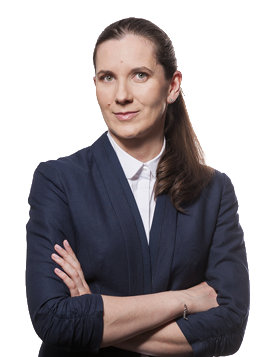
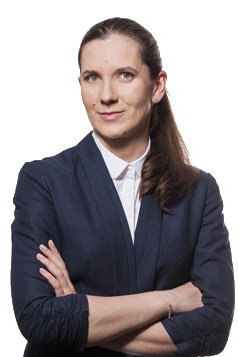
Style header

diff --git a/src/Sections/HeadingHeroRight/HeadingHeroRight.styles.js b/src/Sections/HeadingHeroRight/HeadingHeroRight.styles.js
@@ -3,26 +3,66 @@ import Image from "gatsby-image"
 
 import Button from "../../components/Button/Button"
 
+const sectionHeight = {
+  base: `100vh`,
+  xs: `800px`,
+  sm: `800px`,
+  smLandscape: `calc(100vh - 98px + 50px)`,
+  md: `700px`,
+  mdLandscape: `calc(100vh - 98px + 50px)`,
+  lg: `calc(100vh - 98px + 50px)`,
+  xxl: `calc(100vh - 98px + 50px)`,
+}
+
+const heroImgSizes = {
+  md: {
+    height: `700px`,
+    width: `466px`,
+  },
+  mdLandscape: `(100vh - 98px + 50px)`,
+  lg: {
+    height: `calc(100vh - 98px + 80px)`,
+    width: `calc((100vh - 98px + 80px) * 0.666)`,
+  },
+  xxl: `(100vh - 98px + 50px)`,
+}
+
 export const StyledSection = styled.section`
-  height: 100vh;
+  height: ${sectionHeight.base};
   background-size: cover;
   background-repeat: no-repeat;
-  /* padding-bottom: 100px; */
+  padding-bottom: 100px;
 
   ${({ theme }) => theme.media.xsAbove} {
-    height: 800px;
+    height: ${sectionHeight.xs};
   }
 
   ${({ theme }) => theme.media.smAbove} {
-    height: 700px;
+    height: ${sectionHeight.sm};
     background-image: none;
     display: flex;
     position: relative;
     padding-bottom: 0px;
 
     @media (orientation: landscape) {
-      height: calc(100vh - 98px + 50px);
+      height: ${sectionHeight.smLandscape};
     }
+  }
+
+  ${({ theme }) => theme.media.mdAbove} {
+    height: ${sectionHeight.md};
+
+    @media (orientation: landscape) {
+      height: ${sectionHeight.mdLandscape};
+    }
+  }
+
+  ${({ theme }) => theme.media.lgAbove} {
+    height: ${sectionHeight.lg};
+  }
+
+  ${({ theme }) => theme.media.xlAbove} {
+    height: ${sectionHeight.xl};
   }
 `
 
@@ -93,21 +133,25 @@ export const StyledImage = styled(Image)`
   display: none;
 
   ${({ theme }) => theme.media.mdAbove} {
-    display: block;
-    height: calc(50vh);
-    width: calc(50vw);
-    margin-top: 20px;
+    display: flex;
+    z-index: -10;
+    flex-shrink: 0;
+    height: ${heroImgSizes.md.height};
+    width: ${heroImgSizes.md.width};
+
     @media (orientation: landscape) {
-      /* margin-top: -70px; */
+      margin-top: -30px;
       margin-right: 50px;
-      object-fit: none;
-      /* height: calc(100vh ); */
-      width: calc(50vh + 250px);
     }
   }
 
-  /* ${({ theme }) => theme.media.lgAbove} {
-    height: calc(100vh + 50px);
-    width: calc(50vh + 250px);
-  } */
+  ${({ theme }) => theme.media.lgAbove} {
+    height: ${heroImgSizes.lg.height};
+    width: ${heroImgSizes.lg.width};
+    margin-right: 80px;
+  }
+
+  ${({ theme }) => theme.media.lgAbove} {
+    margin-right: 8vw;
+  }
 `

diff --git a/src/layouts/post.style.js b/src/layouts/post.style.js
@@ -8,9 +8,9 @@ export const StyledSectionLayout = styled(SectionLayout)`
   .headingWrapper {
     position: relative;
     display: flex;
+    align-items: center;
     justify-content: space-between;
-    align-items: flex-end;
-    flex-direction: column;
+    flex-direction: row;
 
     ${({ theme }) => theme.media.smAbove} {
       flex-direction: row-reverse;
@@ -21,15 +21,15 @@ export const StyledSectionLayout = styled(SectionLayout)`
   .textWrapper {
     width: 100%;
     /* background-color: red; */
-    padding: 30px 0;
+    /* padding: 30px 0; */
 
     ${({ theme }) => theme.media.smAbove} {
       width: 45%;
-      padding: 60px 0;
+      /* padding: 60px 0; */
     }
 
     ${({ theme }) => theme.media.lgAbove} {
-      padding: 90px 0;
+      /* padding: 90px 0; */
     }
 
     h1 {
@@ -48,7 +48,8 @@ export const StyledSectionLayout = styled(SectionLayout)`
 
     .author,
     .date {
-      font-size: 12px;
+      font-size: 14px;
+      font-weight: ${({ theme }) => theme.fontWeight.regular};
     }
 
     .date {

diff --git a/src/assets/styles/theme.js b/src/assets/styles/theme.js
@@ -45,7 +45,7 @@ const bodyValues = {
     lg: null,
     xxl: null,
   },
-  fontWeight: "400",
+  fontWeight: "500",
   letterSpacing: null,
 }
 
@@ -66,7 +66,7 @@ const paragraphValues = {
     lg: null,
     xxl: null,
   },
-  fontWeight: "300",
+  fontWeight: "500",
   letterSpacing: null,
 }
 

diff --git a/src/components/TopMenuBar/TopMenuBar.style.js b/src/components/TopMenuBar/TopMenuBar.style.js
@@ -39,6 +39,7 @@ export const StyledLink = styled(Link)`
 export const StyledNav = styled.nav`
   color: ${({ theme }) => theme.color.color3};
   display: flex;
+  z-index: 100;
   /* align-items: flex-start; */
 `
 
